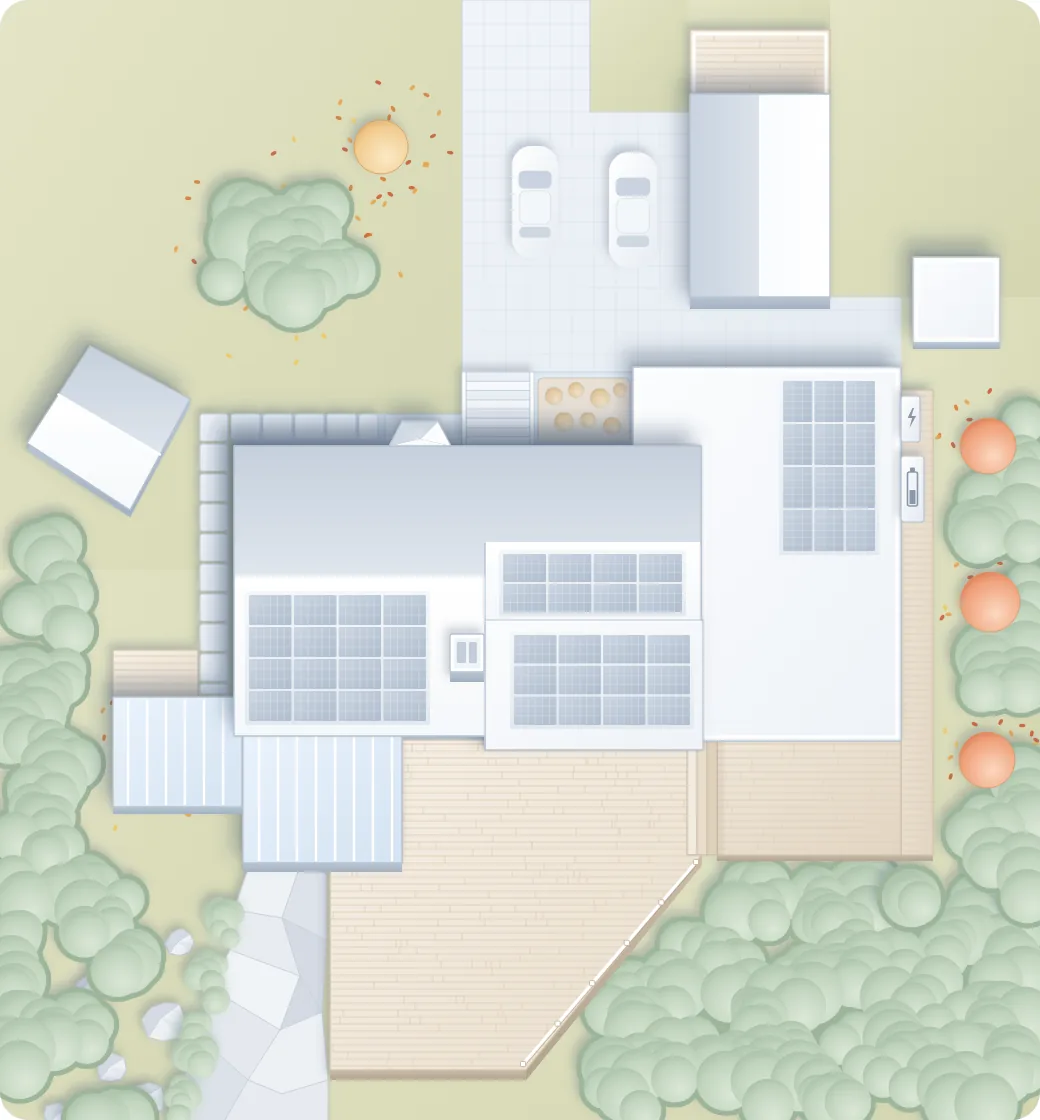
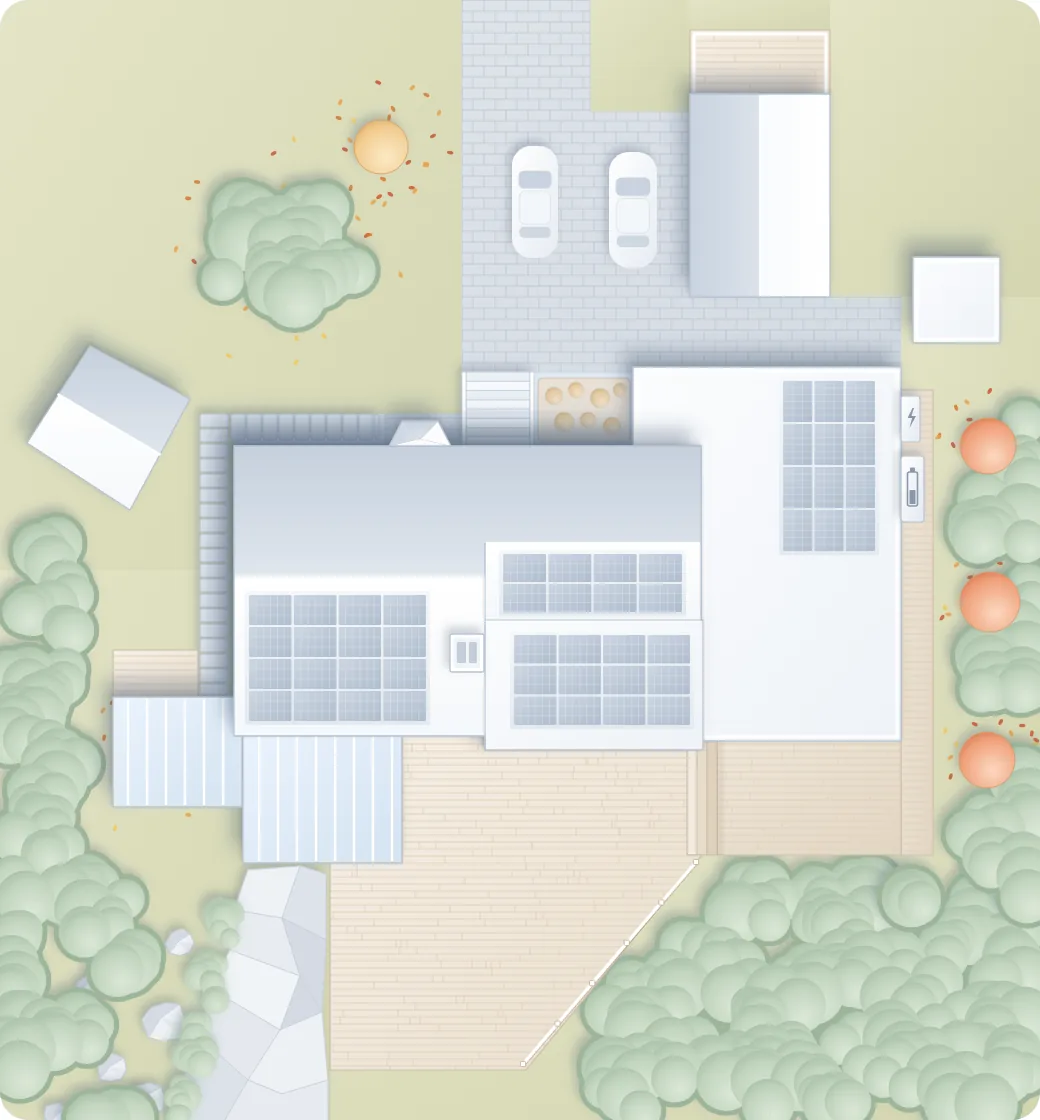
v836: husbilderna 1.29.0 för alla årstider
Ägarens uppdaterade dag- och nattbilder (vår, sommar, höst, vinter med och
utan snö). Samma geometri som förut, så rutor, ledningar, fönster, lampor och
tryckytor ligger kvar på sina platser.

Claude-Session: https://claude.ai/code/session_012MMThXfJhAShsvner6HS5D

diff --git a/js/start.js b/js/start.js
@@ -2611,7 +2611,7 @@ var _beType='dev',_beIcon=null,_beLabel=null,_beDev=null,_beAct=null,_beFlow=nul
 var _beIdx=null;
 
 /* ===== konfiguration (kugghjulet uppe till höger, sedan v675) ===== */
-const APP_VERSION='v835';
+const APP_VERSION='v836';
 const CFG_DEF={paNu:true,wxRubrik:true,wxRubrikPl:false,theme:'auto',scenario:0,glowmul:0.2,glowsharp:0.25,sharpV:2,night:0,nclock:'on',nclockOffset:0,krcOp:0.42,battkwh:24,showspot:true,sync:true,autoreload:true,
   priceGreen:0.20,priceRed:0.80,priceMoms:0,prisPaslag:0,shareLayout:true,
   /* Nollvärdena är de inställningar som visat sig fungera på plattan, inte
